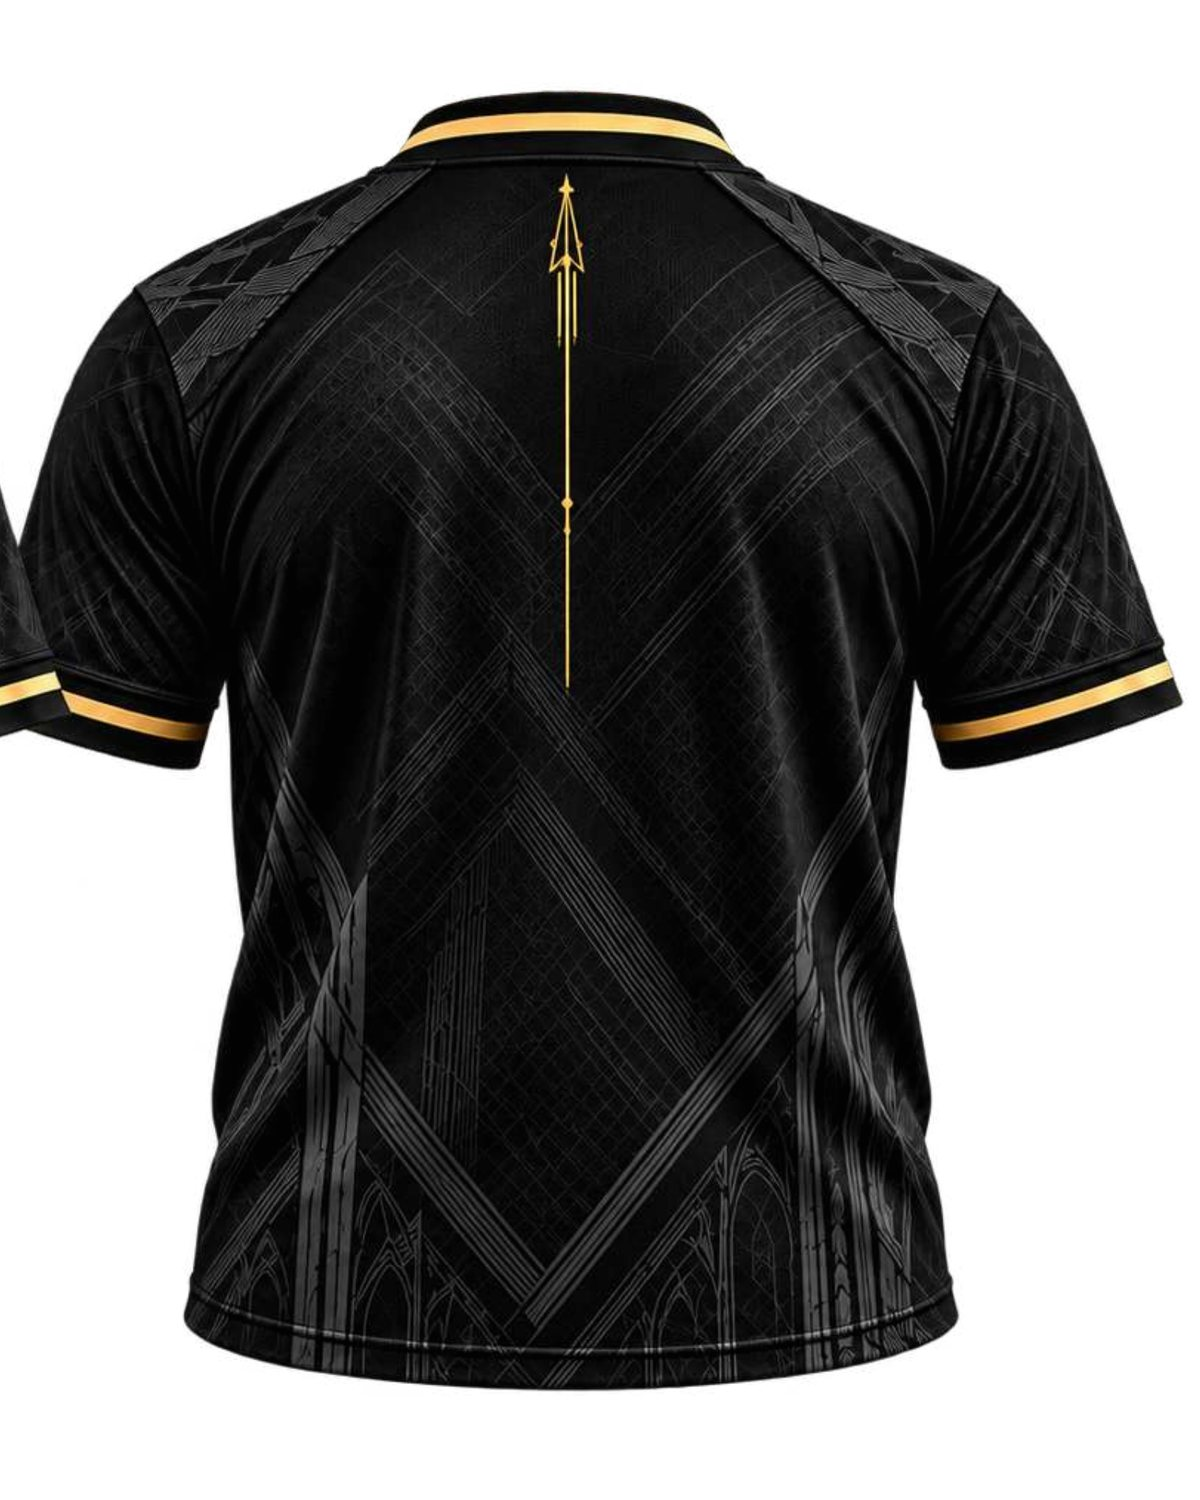
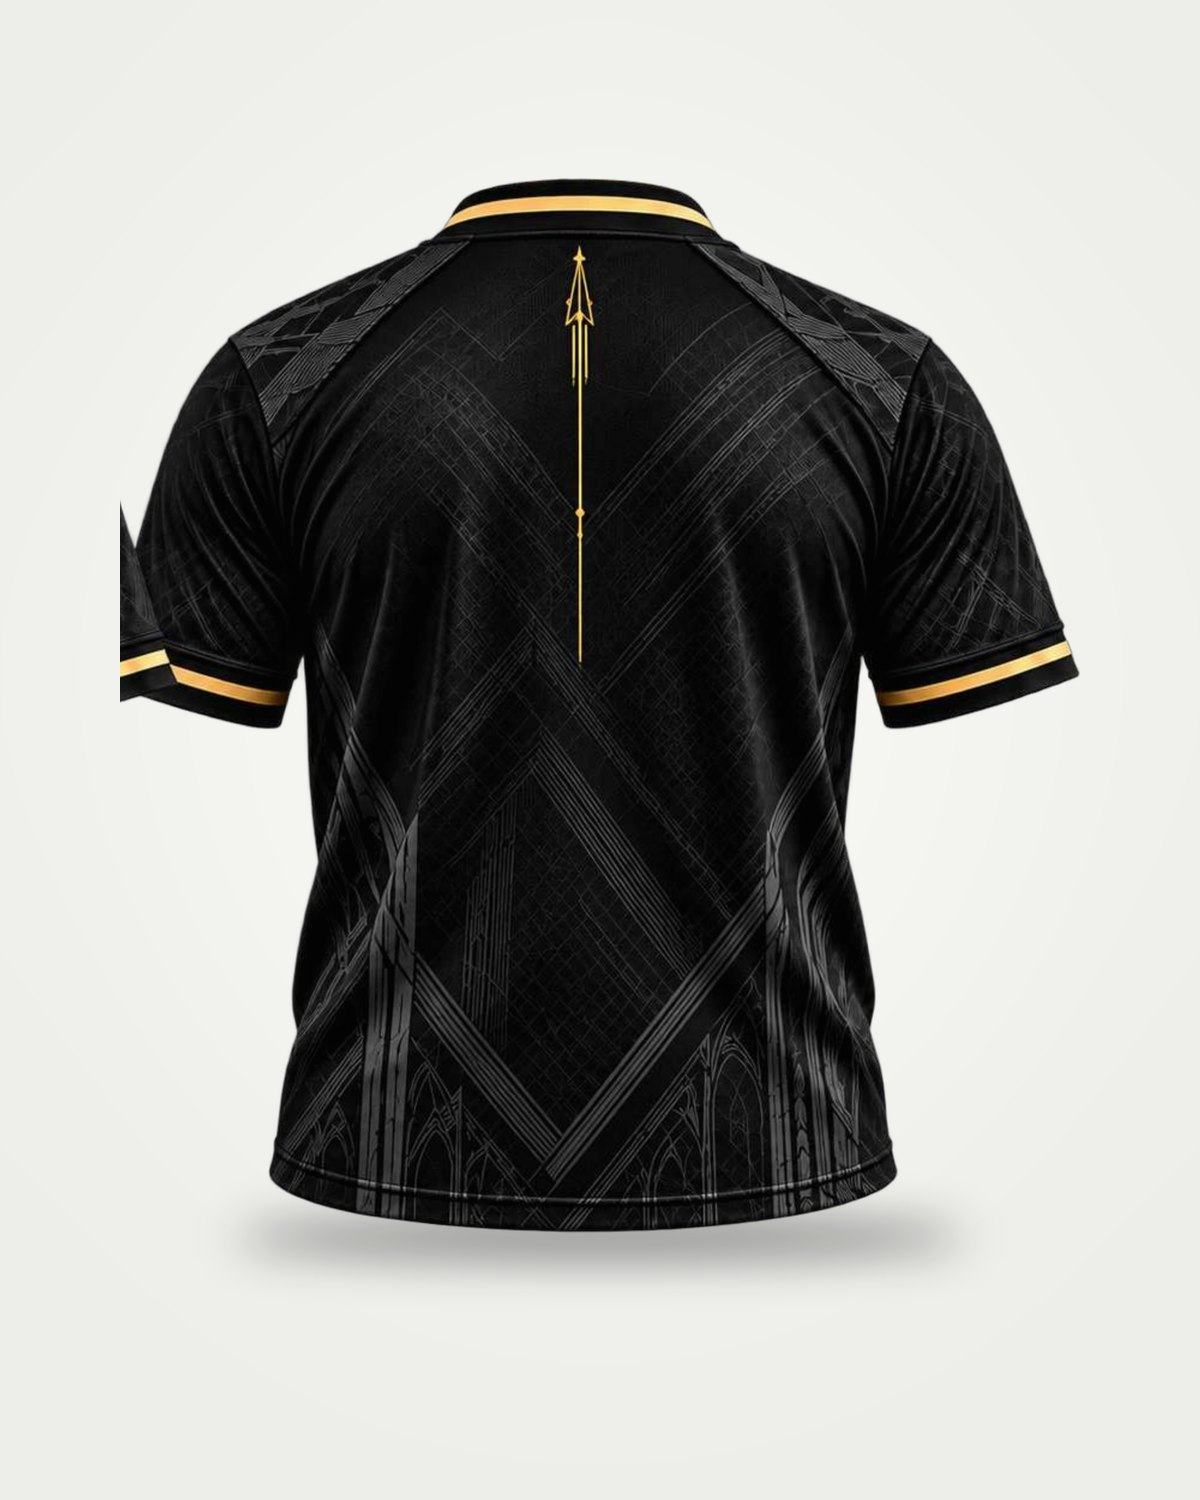
New shop page, custom cursor, and clean studio cut-outs for the first products
- Shop/category listing: bento hero panel with product cut-outs, one
  sticky glass toolbar (category pills, size pills, sorting), all pieces
  on one page, Milan Icons strip after the eighth product, size pills
  on cards.
- The floating View bubble is replaced by custom SVG cursors: a slanted
  arrow, and a red one with a ring over anything clickable.
- Product photos are being re-cut from the merchandise deck with
  background removal and placed on one studio background; products get
  image_version 3 as their views are finished (6 of 25 so far). The
  importer now honours a per-product image_version.

Claude-Session: https://claude.ai/code/session_018WQaSFxJLM7j5kdNC7BRF8

Changed region(s): [[0.0, 0.0613, 0.9867, 0.9507], [0.5242, 0.3987, 0.555, 0.4293]]

diff --git a/commerce/storefront/themes/schermo/assets/css/schermo.css b/commerce/storefront/themes/schermo/assets/css/schermo.css
@@ -302,3 +302,86 @@ ul.products.gx-rail { grid-template-columns: none; grid-auto-flow: column; grid-
 .card-media img.alt { filter: brightness(1.3) contrast(1.05); }
 .drop { background: radial-gradient(80% 140% at 0% 50%, rgba(142, 15, 29, .45), transparent 60%), #111113; color: var(--ink); border: 1px solid var(--glass-line); border-radius: var(--r-lg); margin: 14px clamp(8px, 2vw, 24px) 0; }
 .drop-clock div { border-color: var(--glass-line); background: var(--glass); border-radius: 14px; }
+
+/* ═════════════ Shop listing v3 ═════════════ */
+.sx-hero { padding-top: 14px; }
+.sx-panel { position: relative; overflow: hidden; isolation: isolate; min-height: 340px; border-radius: var(--r-lg); border: 1px solid var(--glass-line); display: grid; grid-template-columns: 1.1fr 1fr; align-items: center;
+  background: radial-gradient(55% 90% at 78% 55%, rgba(142, 15, 29, .55), transparent 70%), radial-gradient(40% 60% at 0% 100%, rgba(201, 162, 74, .1), transparent 70%), linear-gradient(150deg, #19191c, #0c0c0d 70%); }
+.sx-mark { position: absolute; left: -4%; bottom: -30%; width: 42%; fill: #fff; opacity: .03; z-index: -1; }
+.sx-copy { padding: clamp(24px, 4vw, 56px); }
+.sx-copy .crumbs { margin-bottom: 18px; }
+.sx-title { margin: 0; font: 700 clamp(44px, 7vw, 104px)/.9 var(--font-display); letter-spacing: .02em; text-transform: uppercase; }
+.sx-line { margin: 18px 0 0; max-width: 420px; color: var(--ink-2); }
+.sx-count { margin: 22px 0 0; display: inline-flex; align-items: baseline; gap: 10px; padding: 10px 18px; border-radius: 999px; background: var(--glass); border: 1px solid var(--glass-line); font: 600 11px/1 var(--font-label); letter-spacing: var(--label-tracking); text-transform: uppercase; color: var(--muted); }
+.sx-count span { font: 700 22px/1 var(--font-display); color: var(--ink); letter-spacing: 0; }
+.sx-stack { position: relative; height: 100%; min-height: 340px; }
+.sx-stack img { position: absolute; bottom: -6%; height: auto; filter: drop-shadow(0 30px 40px rgba(0, 0, 0, .6)); }
+.sx-a { width: 36%; right: 4%; transform: rotate(6deg); opacity: .9; }
+.sx-c { width: 34%; left: 6%; transform: rotate(-6deg); opacity: .9; }
+.sx-b { width: 46%; left: 27%; z-index: 2; bottom: -10%; }
+
+.sx-bar-wrap { position: sticky; top: 84px; z-index: 20; padding-top: 14px; padding-bottom: 14px; }
+.sx-bar { display: flex; align-items: center; justify-content: space-between; gap: 12px 20px; flex-wrap: wrap; padding: 8px; border-radius: 999px; background: rgba(18, 18, 20, .6); }
+.sx-cats, .sx-sizes, .sx-tools { display: flex; align-items: center; gap: 6px; flex-wrap: wrap; }
+.sx-tools { gap: 14px; }
+.sx-pill { padding: 11px 18px; border-radius: 999px; border: 1px solid var(--line-strong); font: 700 10px/1 var(--font-label); letter-spacing: var(--label-tracking); text-transform: uppercase; transition: background .2s, color .2s, border-color .2s; }
+.sx-pill:hover { border-color: var(--ink); }
+.sx-pill.is-on { background: #fff; color: #0a0a0b; border-color: #fff; }
+.sx-size { min-width: 38px; height: 36px; padding: 0 10px; display: inline-grid; place-items: center; border-radius: 999px; border: 1px solid var(--line-strong); font: 600 11px/1 var(--font-label); }
+.sx-size:hover { border-color: var(--ink); }
+.sx-size.is-on { background: var(--red); border-color: var(--red); color: #fff; box-shadow: 0 0 16px var(--red-glow); }
+.sx-clear { width: 36px; height: 36px; display: grid; place-items: center; border-radius: 50%; border: 1px solid var(--line-strong); }
+.sx-clear .i { width: 14px; height: 14px; }
+.sx-bar .woocommerce-ordering { margin: 0; }
+.sx-bar .woocommerce-ordering select { height: 38px; min-height: 38px; padding: 0 34px 0 16px; border-radius: 999px; background-color: var(--glass); font-size: 12px; }
+.shop-bar, .shop-head { display: none; }
+
+.sx-grid-wrap { padding-top: 10px; }
+.sx-grid-wrap ul.products { gap: 34px 18px; }
+.sx-promo { grid-column: 1 / -1; }
+.sx-promo a { display: grid; grid-template-columns: 120px 1fr auto; gap: 28px; align-items: center; padding: 18px 28px 18px 18px; border-radius: var(--r-lg); border: 1px solid rgba(201, 162, 74, .35);
+  background: repeating-linear-gradient(90deg, rgba(201, 162, 74, .07) 0 1px, transparent 1px 34px), radial-gradient(60% 140% at 0% 50%, rgba(201, 162, 74, .2), transparent 60%), #0e0d0b; transition: box-shadow .4s; }
+.sx-promo a:hover { box-shadow: 0 0 40px -8px rgba(201, 162, 74, .45); }
+.sx-promo img { width: 120px; border-radius: 16px; }
+.sx-promo-copy { display: grid; gap: 6px; }
+.sx-promo-title { font: 700 clamp(22px, 3vw, 40px)/1 var(--font-display); letter-spacing: .04em; text-transform: uppercase; background: linear-gradient(180deg, #f3dc9a, var(--gold) 55%, #8f6c25); -webkit-background-clip: text; background-clip: text; color: transparent; }
+.sx-promo-line { font: 500 11px/1.4 var(--font-label); letter-spacing: .3em; text-transform: uppercase; color: rgba(243, 220, 154, .8); }
+
+/* Product cards: one studio look everywhere */
+.card-media { background: #ededea; aspect-ratio: 4 / 5; }
+.card-media img { object-fit: contain; }
+.card-body { padding-top: 14px; }
+.card-cat { color: var(--muted); }
+.card-title { font: 600 15px/1.3 var(--font-body); }
+.card-price { color: var(--muted); }
+.card-sizes { gap: 5px; flex-wrap: wrap; margin-top: 10px; }
+.card-sizes span { min-width: 30px; height: 24px; padding: 0 7px; display: inline-grid; place-items: center; border-radius: 999px; border: 1px solid var(--line-strong); font: 600 10px/1 var(--font-label); color: var(--ink-2); }
+.card-sizes .out { color: var(--faint); border-color: var(--line); text-decoration: line-through; }
+
+@media (max-width: 960px) {
+  .sx-panel { grid-template-columns: 1fr; }
+  .sx-stack { min-height: 240px; }
+  .sx-bar { border-radius: 24px; }
+  .sx-bar-wrap { position: static; }
+  .sx-promo a { grid-template-columns: 80px 1fr; }
+  .sx-promo img { width: 80px; }
+  .sx-promo .btn { grid-column: 1 / -1; justify-self: start; }
+}
+@media (max-width: 760px) {
+  .sx-cats { overflow-x: auto; flex-wrap: nowrap; scrollbar-width: none; width: 100%; }
+  .sx-pill { white-space: nowrap; }
+}
+.sx-stack img { bottom: 6%; }
+.sx-a { width: 27%; right: 6%; bottom: 10%; }
+.sx-c { width: 26%; left: 8%; bottom: 10%; }
+.sx-b { width: 36%; left: 32%; bottom: 2%; }
+
+/* Custom cursor (replaces the View bubble): slanted arrow; red with a glowing ring on anything clickable. */
+@media (hover: hover) and (pointer: fine) {
+  html, body { cursor: url("../img/cursor.svg") 5 3, auto; }
+  a, button, summary, label, select, [role="button"], .card-media, .size-opt, .market-opt { cursor: url("../img/cursor-hand.svg") 9 8, pointer; }
+  input[type=text], input[type=email], input[type=search], input[type=tel], input[type=password], input[type=number], textarea { cursor: text; }
+  .icon-btn, .gx-round, .market-btn { transition: background .25s, box-shadow .25s; }
+  .icon-btn:hover, .gx-round:hover, .market-btn:hover { background: rgba(255, 255, 255, .16); box-shadow: 0 0 0 4px rgba(255, 255, 255, .06), 0 0 18px rgba(214, 32, 52, .35); }
+}
+.cursor-view { display: none !important; }

diff --git a/commerce/storefront/themes/brandhouse/assets/js/theme.js b/commerce/storefront/themes/brandhouse/assets/js/theme.js
@@ -69,30 +69,6 @@
     data.subscribe(render, 'wc/store/cart');
   });
 
-  // Product cards: a round "View" cursor follows the pointer over product photos (mouse/trackpad only).
-  const fine = window.matchMedia('(hover: hover) and (pointer: fine)').matches;
-  const still = window.matchMedia('(prefers-reduced-motion: reduce)').matches;
-  if (fine && document.querySelector('.card-media')) {
-    const dot = document.createElement('div');
-    dot.className = 'cursor-view';
-    dot.setAttribute('aria-hidden', 'true');
-    dot.textContent = (window.brandhouse && window.brandhouse.viewLabel) || 'View';
-    document.body.appendChild(dot);
-    let x = 0, y = 0, cx = 0, cy = 0, raf = 0;
-    const move = () => {
-      cx += (x - cx) * (still ? 1 : 0.22); cy += (y - cy) * (still ? 1 : 0.22);
-      dot.style.transform = `translate3d(${cx}px, ${cy}px, 0) translate(-50%, -50%)`;
-      raf = Math.abs(x - cx) + Math.abs(y - cy) > 0.3 ? requestAnimationFrame(move) : 0;
-    };
-    document.addEventListener('pointermove', (e) => {
-      x = e.clientX; y = e.clientY;
-      if (!dot.classList.contains('is-on')) { cx = x; cy = y; }
-      if (!raf) raf = requestAnimationFrame(move);
-    }, { passive: true });
-    document.addEventListener('pointerover', (e) => dot.classList.toggle('is-on', !!e.target.closest('.card-media')));
-    document.addEventListener('pointerleave', () => dot.classList.remove('is-on'));
-  }
-
   // Search panel.
   const searchBtn = $('[data-search-open]');
   const panel = $('#site-search');

diff --git a/commerce/storefront/themes/brandhouse/assets/css/base.css b/commerce/storefront/themes/brandhouse/assets/css/base.css
@@ -332,7 +332,6 @@ main.page { padding-top: 40px; padding-bottom: 80px; }
 .card-media img.alt { opacity: 1; clip-path: inset(0 100% 0 0); transition: clip-path .7s cubic-bezier(.7, 0, .2, 1), transform .7s var(--ease); }
 .card:hover .card-media img.alt { clip-path: inset(0 0 0 0); }
 .card:hover .card-media img:not(.alt) { transform: scale(1.04); }
-@media (hover: hover) and (pointer: fine) { .card-media { cursor: none; } }
 .cursor-view { position: fixed; left: 0; top: 0; z-index: 90; width: 88px; height: 88px; margin: 0; border-radius: 50%; display: grid; place-items: center; background: var(--ink); color: var(--bg); font: 700 10px/1 var(--font-label); letter-spacing: var(--label-tracking); text-transform: uppercase; pointer-events: none; opacity: 0; scale: .2; transition: opacity .2s, scale .35s cubic-bezier(.2, .9, .3, 1.3); }
 .cursor-view.is-on { opacity: 1; scale: 1; }
 @media (prefers-reduced-motion: reduce) { .card-media img.alt { transition: none; } .cursor-view { transition: none; } }

diff --git a/commerce/storefront/themes/schermo/woocommerce/archive-product.php b/commerce/storefront/themes/schermo/woocommerce/archive-product.php
@@ -1,0 +1,107 @@
+<?php
+/**
+ * Schermo listing (shop, category, search): bento hero, one sticky glass toolbar, uniform product grid and a
+ * Milan Icons row after the eighth product. Keeps WooCommerce's hooks so plugins still work.
+ */
+defined('ABSPATH') || exit;
+
+get_header('shop');
+do_action('woocommerce_before_main_content');
+
+$term = get_queried_object();
+$current = $term instanceof WP_Term && $term->taxonomy === 'product_cat' ? $term : null;
+$cats = get_terms(['taxonomy' => 'product_cat', 'parent' => 0, 'hide_empty' => true, 'exclude' => [(int) get_option('default_product_cat')]]);
+$sizes = taxonomy_exists('pa_size') ? get_terms(['taxonomy' => 'pa_size', 'hide_empty' => true]) : [];
+$chosen = array_filter(explode(',', sanitize_text_field(wp_unslash($_GET['filter_size'] ?? '')))); // phpcs:ignore WordPress.Security.NonceVerification
+$order = ['s', 'm', 'l', 'xl', 'xxl', 'xxxl'];
+if (is_array($sizes)) {
+    usort($sizes, static fn ($a, $b) => ((($i = array_search($a->slug, $order, true)) === false ? 99 : $i) <=> (($j = array_search($b->slug, $order, true)) === false ? 99 : $j)));
+}
+$sizeUrl = static function (string $slug) use ($chosen): string {
+    $next = in_array($slug, $chosen, true) ? array_diff($chosen, [$slug]) : array_merge($chosen, [$slug]);
+    $url = remove_query_arg(['filter_size', 'query_type_size', 'paged']);
+    return $next ? add_query_arg(['filter_size' => implode(',', $next), 'query_type_size' => 'or'], $url) : $url;
+};
+$total = (int) wc_get_loop_prop('total');
+$title = woocommerce_page_title(false);
+$line = $current && $current->description !== '' ? wp_strip_all_tags($current->description) : __('Kits, travel wear and accessories — shipped from Delhi, India.', 'schermo');
+$hero = get_stylesheet_directory_uri() . '/assets/img/hero/';
+$collection = get_term_by('slug', 'milan-icons', 'product_cat');
+?>
+<section class="sx-hero container" aria-labelledby="sx-title">
+  <div class="sx-panel">
+    <?php echo schermo_svg('schermo-mark', 'sx-mark'); ?>
+    <div class="sx-copy">
+      <?php woocommerce_breadcrumb(); ?>
+      <h1 id="sx-title" class="sx-title"><?php echo esc_html($title); ?></h1>
+      <p class="sx-line"><?php echo esc_html($line); ?></p>
+      <?php if ($total): ?><p class="sx-count"><span><?php echo (int) $total; ?></span><?php echo esc_html(_n('piece', 'pieces', $total, 'schermo')); ?></p><?php endif; ?>
+    </div>
+    <div class="sx-stack" aria-hidden="true">
+      <img class="sx-a" src="<?php echo esc_url($hero . 'practice-shorts.webp'); ?>" alt="">
+      <img class="sx-b" src="<?php echo esc_url($hero . 'playing-jersey.webp'); ?>" alt="">
+      <img class="sx-c" src="<?php echo esc_url($hero . 'practice-kit-sleeveless.webp'); ?>" alt="">
+    </div>
+  </div>
+</section>
+
+<div class="sx-bar-wrap container">
+  <div class="sx-bar glass">
+    <?php if (is_array($cats) && $cats): ?>
+      <nav class="sx-cats" aria-label="<?php esc_attr_e('Categories', 'schermo'); ?>">
+        <a class="sx-pill<?php echo $current ? '' : ' is-on'; ?>" href="<?php echo esc_url(wc_get_page_permalink('shop')); ?>"<?php echo $current ? '' : ' aria-current="page"'; ?>><?php esc_html_e('All', 'schermo'); ?></a>
+        <?php foreach ($cats as $c): $on = $current && $current->term_id === $c->term_id; ?>
+          <a class="sx-pill<?php echo $on ? ' is-on' : ''; ?>" href="<?php echo esc_url(get_term_link($c)); ?>"<?php echo $on ? ' aria-current="page"' : ''; ?>><?php echo esc_html($c->name); ?></a>
+        <?php endforeach; ?>
+      </nav>
+    <?php endif; ?>
+    <div class="sx-tools">
+      <?php if (is_array($sizes) && $sizes): ?>
+        <div class="sx-sizes" role="group" aria-label="<?php esc_attr_e('Filter by size', 'schermo'); ?>">
+          <?php foreach ($sizes as $s): $on = in_array($s->slug, $chosen, true); ?>
+            <a class="sx-size<?php echo $on ? ' is-on' : ''; ?>" href="<?php echo esc_url($sizeUrl($s->slug)); ?>" aria-pressed="<?php echo $on ? 'true' : 'false'; ?>"><?php echo esc_html($s->name); ?></a>
+          <?php endforeach; ?>
+          <?php if ($chosen): ?><a class="sx-clear" href="<?php echo esc_url(remove_query_arg(['filter_size', 'query_type_size', 'paged'])); ?>" aria-label="<?php esc_attr_e('Clear size filter', 'schermo'); ?>"><?php echo brandhouse_icon('close'); ?></a><?php endif; ?>
+        </div>
+      <?php endif; ?>
+      <?php if (woocommerce_product_loop()) { woocommerce_catalog_ordering(); } ?>
+    </div>
+  </div>
+</div>
+
+<div class="container sx-grid-wrap">
+<?php
+if (woocommerce_product_loop()) {
+    woocommerce_output_all_notices();
+    woocommerce_product_loop_start();
+    $n = 0;
+    while (have_posts()) {
+        the_post();
+        do_action('woocommerce_shop_loop');
+        wc_get_template_part('content', 'product');
+        if (++$n === 8 && $collection && !is_wp_error($collection) && (!$current || $current->slug !== 'milan-icons')) {
+            ?>
+            <li class="sx-promo">
+              <a href="<?php echo esc_url(get_term_link($collection)); ?>">
+                <img src="<?php echo esc_url(get_stylesheet_directory_uri() . '/assets/img/milan-icons-crest.jpg'); ?>" alt="" loading="lazy">
+                <span class="sx-promo-copy"><span class="eyebrow"><?php esc_html_e('Collection', 'schermo'); ?></span><span class="sx-promo-title"><?php echo esc_html($collection->name); ?></span><span class="sx-promo-line">Play Beyond · Sempre Avanti</span></span>
+                <span class="btn gx-gold"><?php esc_html_e('Shop the collection', 'schermo'); ?><?php echo brandhouse_icon('arrow'); ?></span>
+              </a>
+            </li>
+            <?php
+        }
+    }
+    woocommerce_product_loop_end();
+    do_action('woocommerce_after_shop_loop');
+} else {
+    echo '<div class="empty-state"><p class="eyebrow">' . esc_html__('No results', 'schermo') . '</p><h2>' . esc_html__('Nothing matches these filters', 'schermo') . '</h2>';
+    if ($chosen) {
+        echo '<p><a class="btn btn-outline" href="' . esc_url(remove_query_arg(['filter_size', 'query_type_size', 'paged'])) . '">' . esc_html__('Clear size filter', 'schermo') . '</a></p>';
+    }
+    echo '</div>';
+}
+?>
+</div>
+<?php
+do_action('woocommerce_after_main_content');
+get_footer('shop');

diff --git a/commerce/storefront/docker/import-catalog.php b/commerce/storefront/docker/import-catalog.php
@@ -39,7 +39,7 @@ foreach (glob($root . '/*/products.json') ?: [] as $json) {
         }
     }
     foreach ($data['products'] as $p) {
-        $ver = (int) ($data['image_version'] ?? 1);
+        $ver = (int) ($p['image_version'] ?? $data['image_version'] ?? 1);
         $existing = wc_get_product_id_by_sku($p['sku']);
         if ($existing) {
             // Existing products keep everything the owner edited; only their photos are replaced when the
@@ -82,7 +82,7 @@ foreach (glob($root . '/*/products.json') ?: [] as $json) {
             $images[] = $attach(dirname($json) . '/' . $img, $id, $p['name'] . ' — view ' . ($i + 1));
         }
         $images = array_values(array_filter($images));
-        update_post_meta($id, '_bh_img_ver', (int) ($data['image_version'] ?? 1));
+        update_post_meta($id, '_bh_img_ver', (int) ($p['image_version'] ?? $data['image_version'] ?? 1));
         if ($images) {
             $product->set_image_id($images[0]);
             $product->set_gallery_image_ids(array_slice($images, 1));

diff --git a/commerce/storefront/themes/schermo/functions.php b/commerce/storefront/themes/schermo/functions.php
@@ -159,3 +159,6 @@ add_action('wp_enqueue_scripts', static function (): void {
         wp_localize_script('schermo-home', 'schermoHero', array_map(static fn ($s) => ['name' => $s['name'], 'url' => $s['url'], 'price' => wp_strip_all_tags($s['price'])], schermo_hero_slides()));
     }
 }, 21);
+
+// Show the whole collection on one page (25 pieces) instead of spilling one product onto page 2.
+add_filter('loop_shop_per_page', static fn (): int => 48, 20);
